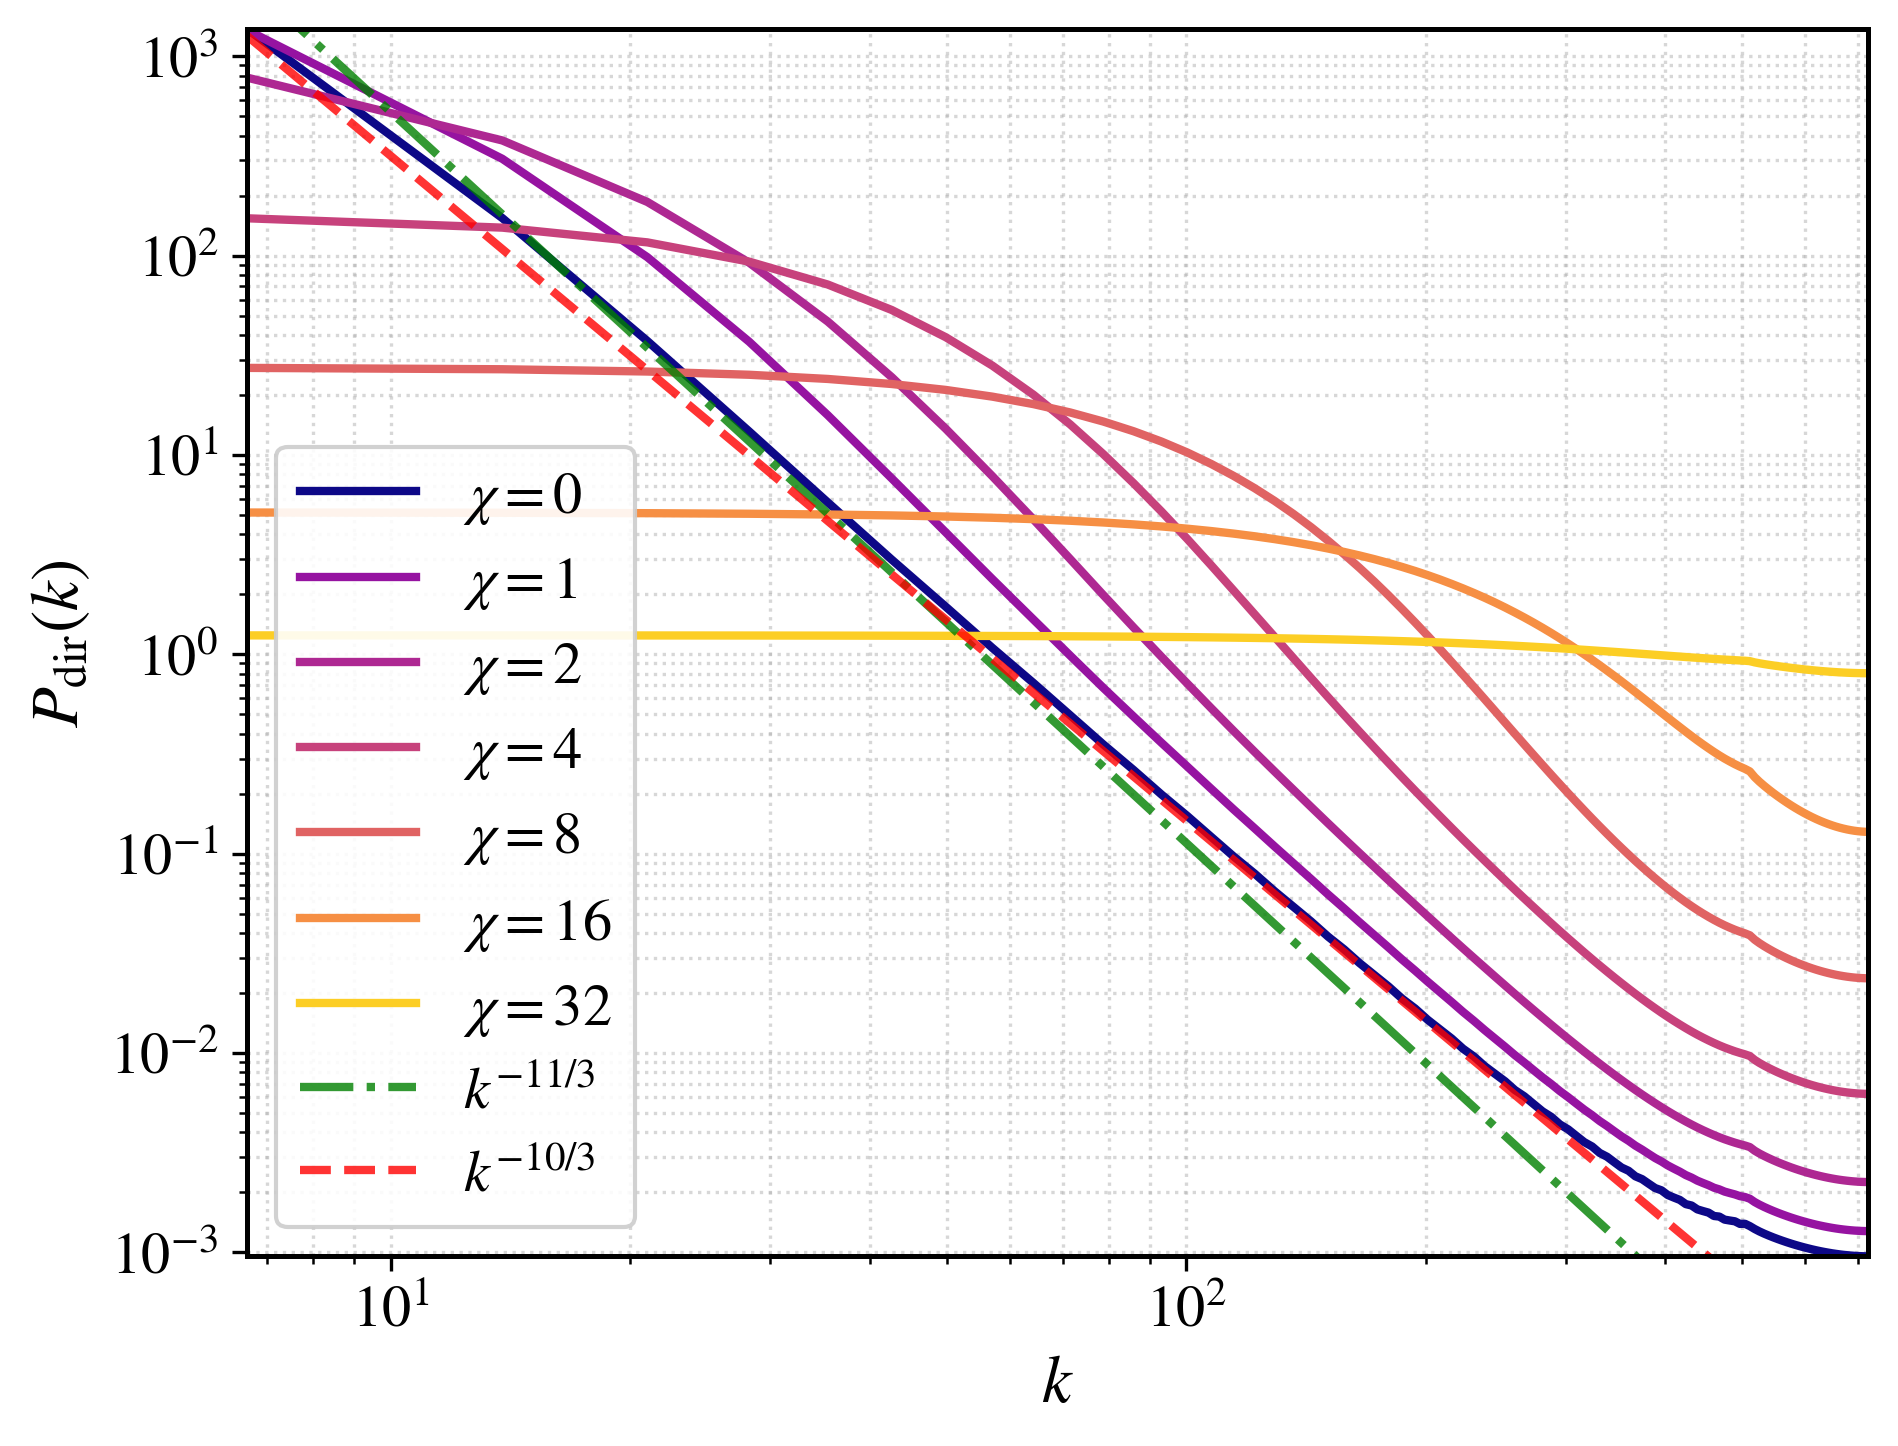
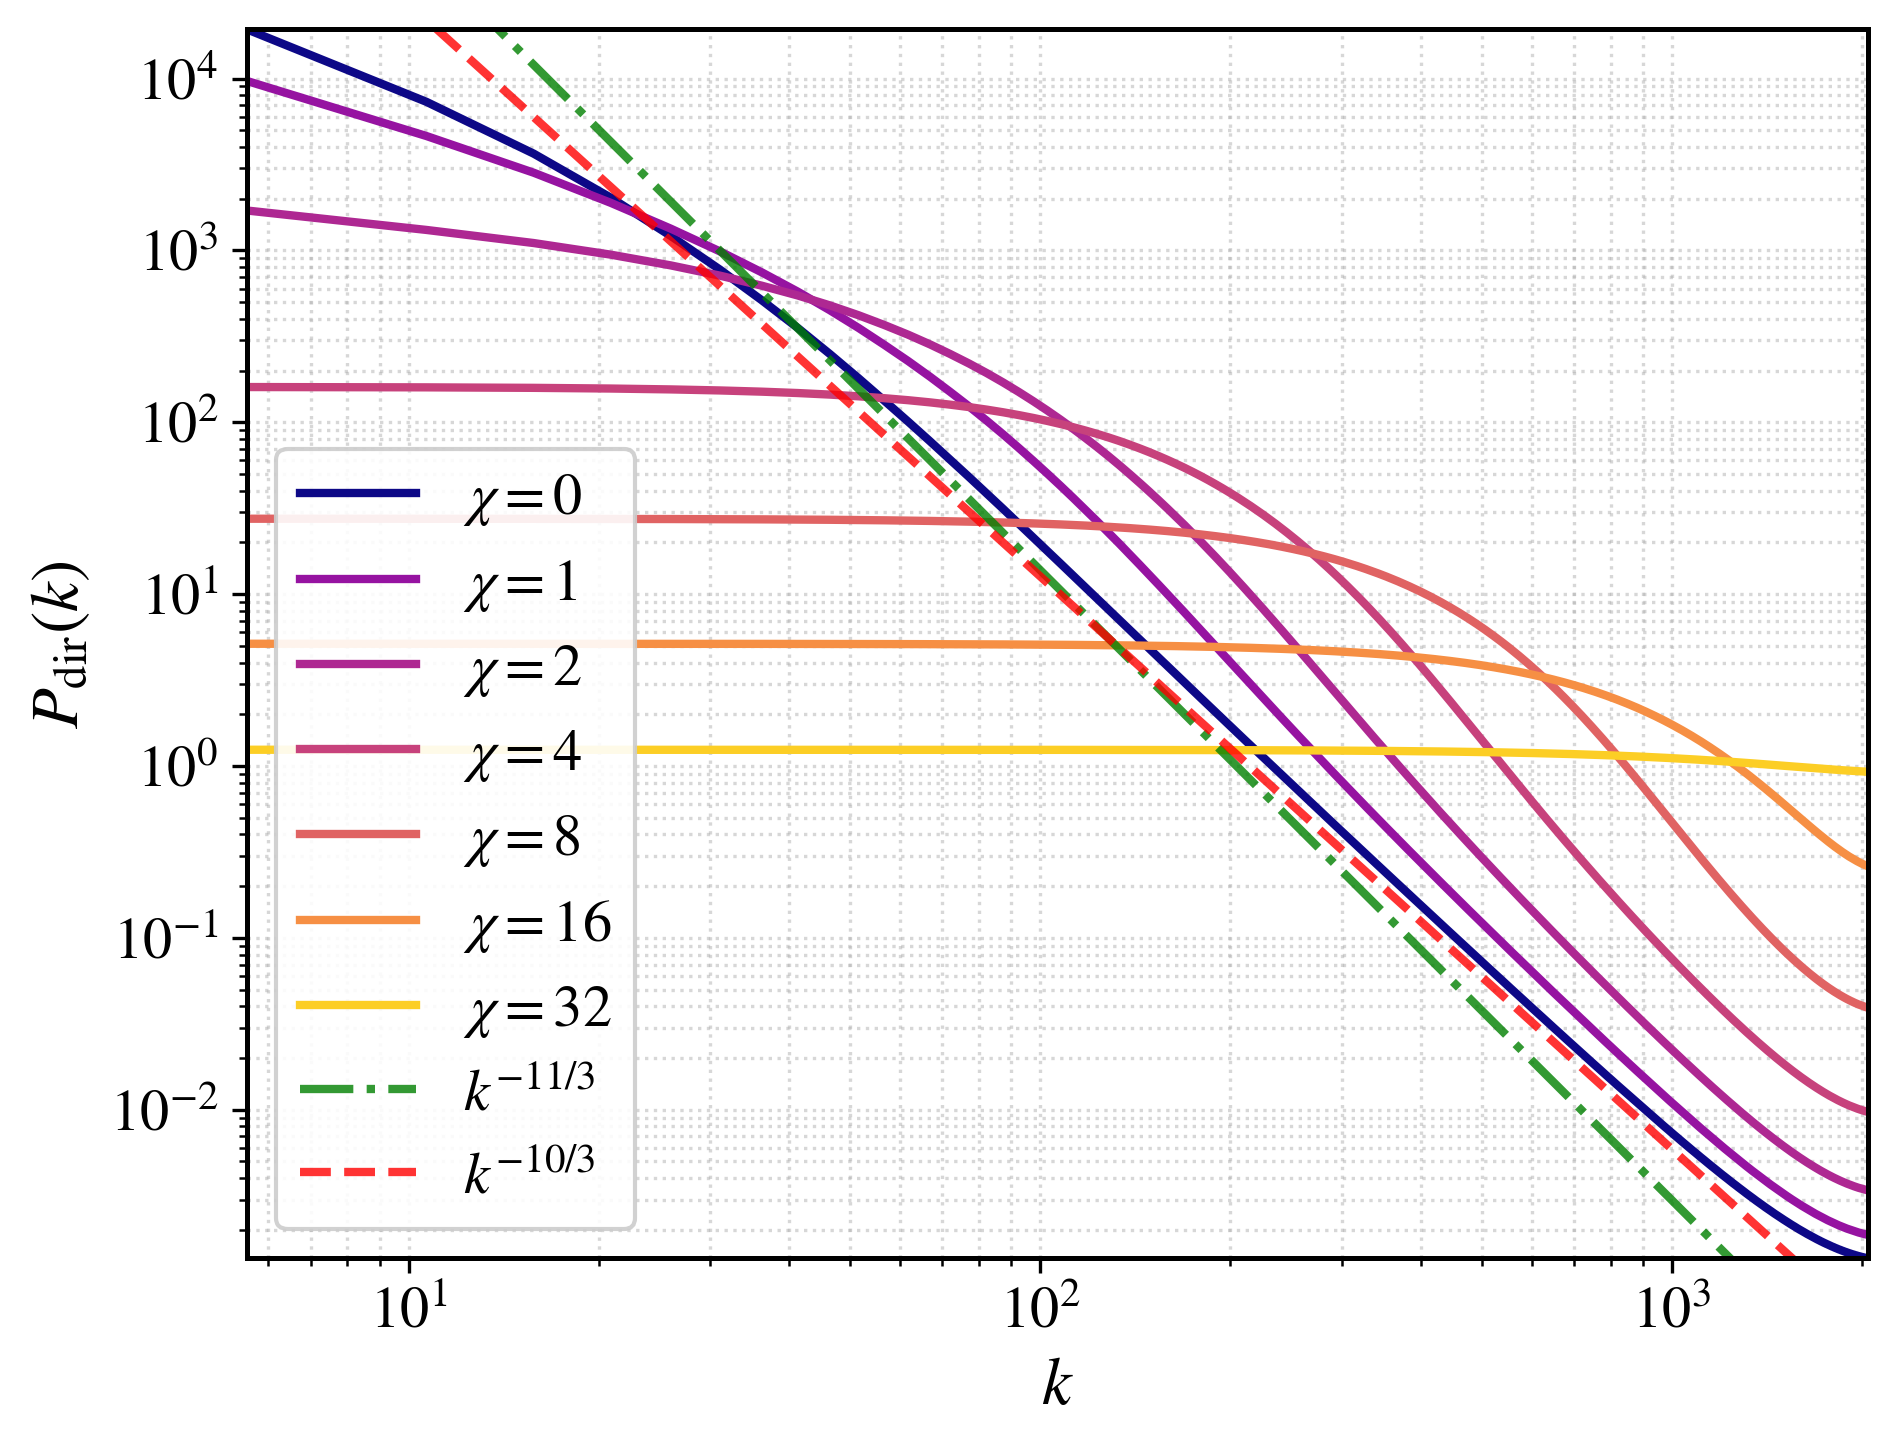
Larger labels, higher accuracy

diff --git a/compare_measures/directional_spectrum/theor_prediction_director/theory.py b/compare_measures/directional_spectrum/theor_prediction_director/theory.py
@@ -1,5 +1,7 @@
 import numpy as np
 import matplotlib.pyplot as plt
+from scipy.special import j0
+from scipy.integrate import simpson
 
 plt.rcParams.update({
     'font.size': 11,
@@ -31,7 +33,7 @@ mpl.rcParams.update({
     "font.family": "STIXGeneral",  # match math fonts
 })
 
-def ring_average_2d(power2d, kmin=1.0, kmax=None, nbins=40):
+def ring_average_2d(power2d, kmin=1.0, kmax=None, nbins=200):
     ny, nx = power2d.shape
     ky = np.arange(-ny//2, ny - ny//2)
     kx = np.arange(-nx//2, nx - nx//2)
@@ -74,10 +76,46 @@ def corr_from_structure(D, C0):
     return C0 - 0.5 * D
 
 def spectrum_from_corr(C):
-    C0 = np.fft.ifftshift(C)
-    Pk = np.fft.fft2(C0)
-    Pk = np.fft.fftshift(Pk)
-    return Pk.real
+    ny, nx = C.shape
+    
+    y = np.arange(-ny//2, ny - ny//2)
+    x = np.arange(-nx//2, nx - nx//2)
+    X, Y = np.meshgrid(x, y, indexing="xy")
+    R = np.sqrt(X**2 + Y**2)
+    
+    R_flat = R.flatten()
+    C_flat = C.flatten()
+    
+    R_max = R_flat.max()
+    R_bins = np.linspace(0, R_max, min(500, int(R_max) + 1))
+    R_centers = 0.5 * (R_bins[:-1] + R_bins[1:])
+    
+    C_radial = np.zeros(len(R_centers))
+    for i in range(len(R_centers)):
+        if i == 0:
+            mask = (R_flat >= 0) & (R_flat < R_bins[1])
+        else:
+            mask = (R_flat >= R_bins[i]) & (R_flat < R_bins[i+1])
+        if np.any(mask):
+            C_radial[i] = np.mean(C_flat[mask])
+    
+    ky = np.arange(-ny//2, ny - ny//2)
+    kx = np.arange(-nx//2, nx - nx//2)
+    KX, KY = np.meshgrid(kx, ky, indexing="xy")
+    K = np.sqrt(KX**2 + KY**2)
+    
+    Pk = np.zeros_like(C, dtype=float)
+    
+    for i in range(ny):
+        for j in range(nx):
+            k = K[i, j]
+            if k > 0 and len(R_centers) > 1:
+                integrand = C_radial * j0(k * R_centers) * 2 * np.pi * R_centers
+                Pk[i, j] = simpson(integrand, R_centers)
+            else:
+                Pk[i, j] = 0.0
+    
+    return Pk
 
 def directional_spectrum_from_models(
     N=512,
@@ -88,7 +126,7 @@ def directional_spectrum_from_models(
     rphi=33.8,
     mPhi=0.93,
     chi_list=(0.2, 1.0, 5.0, 20.0),
-    nbins=50,
+    nbins=200,
     kmin=2.0,
     save_figures=False,
     figure_prefix='directional_spectrum',
@@ -104,8 +142,8 @@ def directional_spectrum_from_models(
     P_ui_2d = spectrum_from_corr(xi_P)
     P_Phi_2d = spectrum_from_corr(xi_Phi)
 
-    kc_ui, P_ui = ring_average_2d(P_ui_2d, kmin=kmin, nbins=nbins)
-    kc_ph, P_ph = ring_average_2d(P_Phi_2d, kmin=kmin, nbins=nbins)
+    kc_ui, P_ui = ring_average_2d(P_ui_2d, kmin=kmin, kmax=N/2, nbins=nbins)
+    kc_ph, P_ph = ring_average_2d(P_Phi_2d, kmin=kmin, kmax=N/2, nbins=nbins)
 
     results = []
 
@@ -114,7 +152,7 @@ def directional_spectrum_from_models(
         lam4 = lam2**2
         C_dir = xi_P * np.exp(-2.0 * lam4 * DPH)
         Pdir_2d = spectrum_from_corr(C_dir)
-        kc, Pdir = ring_average_2d(Pdir_2d, kmin=kmin, nbins=nbins)
+        kc, Pdir = ring_average_2d(Pdir_2d, kmin=kmin, kmax=N/2, nbins=nbins)
         results.append((chi, kc, Pdir))
 
     fig1, ax1 = plt.subplots(figsize=(6.5, 5.0))
@@ -147,7 +185,7 @@ def directional_spectrum_from_models(
         if len(kc_ref) > 0:
             k_mid = kc_ref[len(kc_ref) // 2]
             P_mid = Pdir_ref[len(Pdir_ref) // 2]
-            k_ref = np.logspace(np.log10(kc_ref.min()), np.log10(kc_ref.max()), 200)
+            k_ref = np.logspace(np.log10(kc_ref.min()), np.log10(kc_ref.max()), 500)
             P_ref_11 = P_mid * (k_ref / k_mid)**(-11.0/3.0) * 0.4
             P_ref_10 = P_mid * (k_ref / k_mid)**(-10.0/3.0) * 0.8
             ax1.loglog(k_ref, P_ref_11, 'g-.', lw=2.0, alpha=0.8, label=r"$k^{-11/3}$")
@@ -208,7 +246,7 @@ if __name__ == "__main__":
     mPhi_kolm = mPhi_from_beta3D(beta_kolm)
 
     directional_spectrum_from_models(
-        N=1024,
+        N=1024*2,
         A_P=1.0,
         R0=55.38,
         mpsi=1.373,
@@ -216,7 +254,7 @@ if __name__ == "__main__":
         rphi=33.76,
         mPhi=mPhi_kolm,
         chi_list=chi_list,
-        nbins=100,
+        nbins=200,
         kmin=3.0,
         save_figures=False,
         figure_prefix='directional_spectrum',
